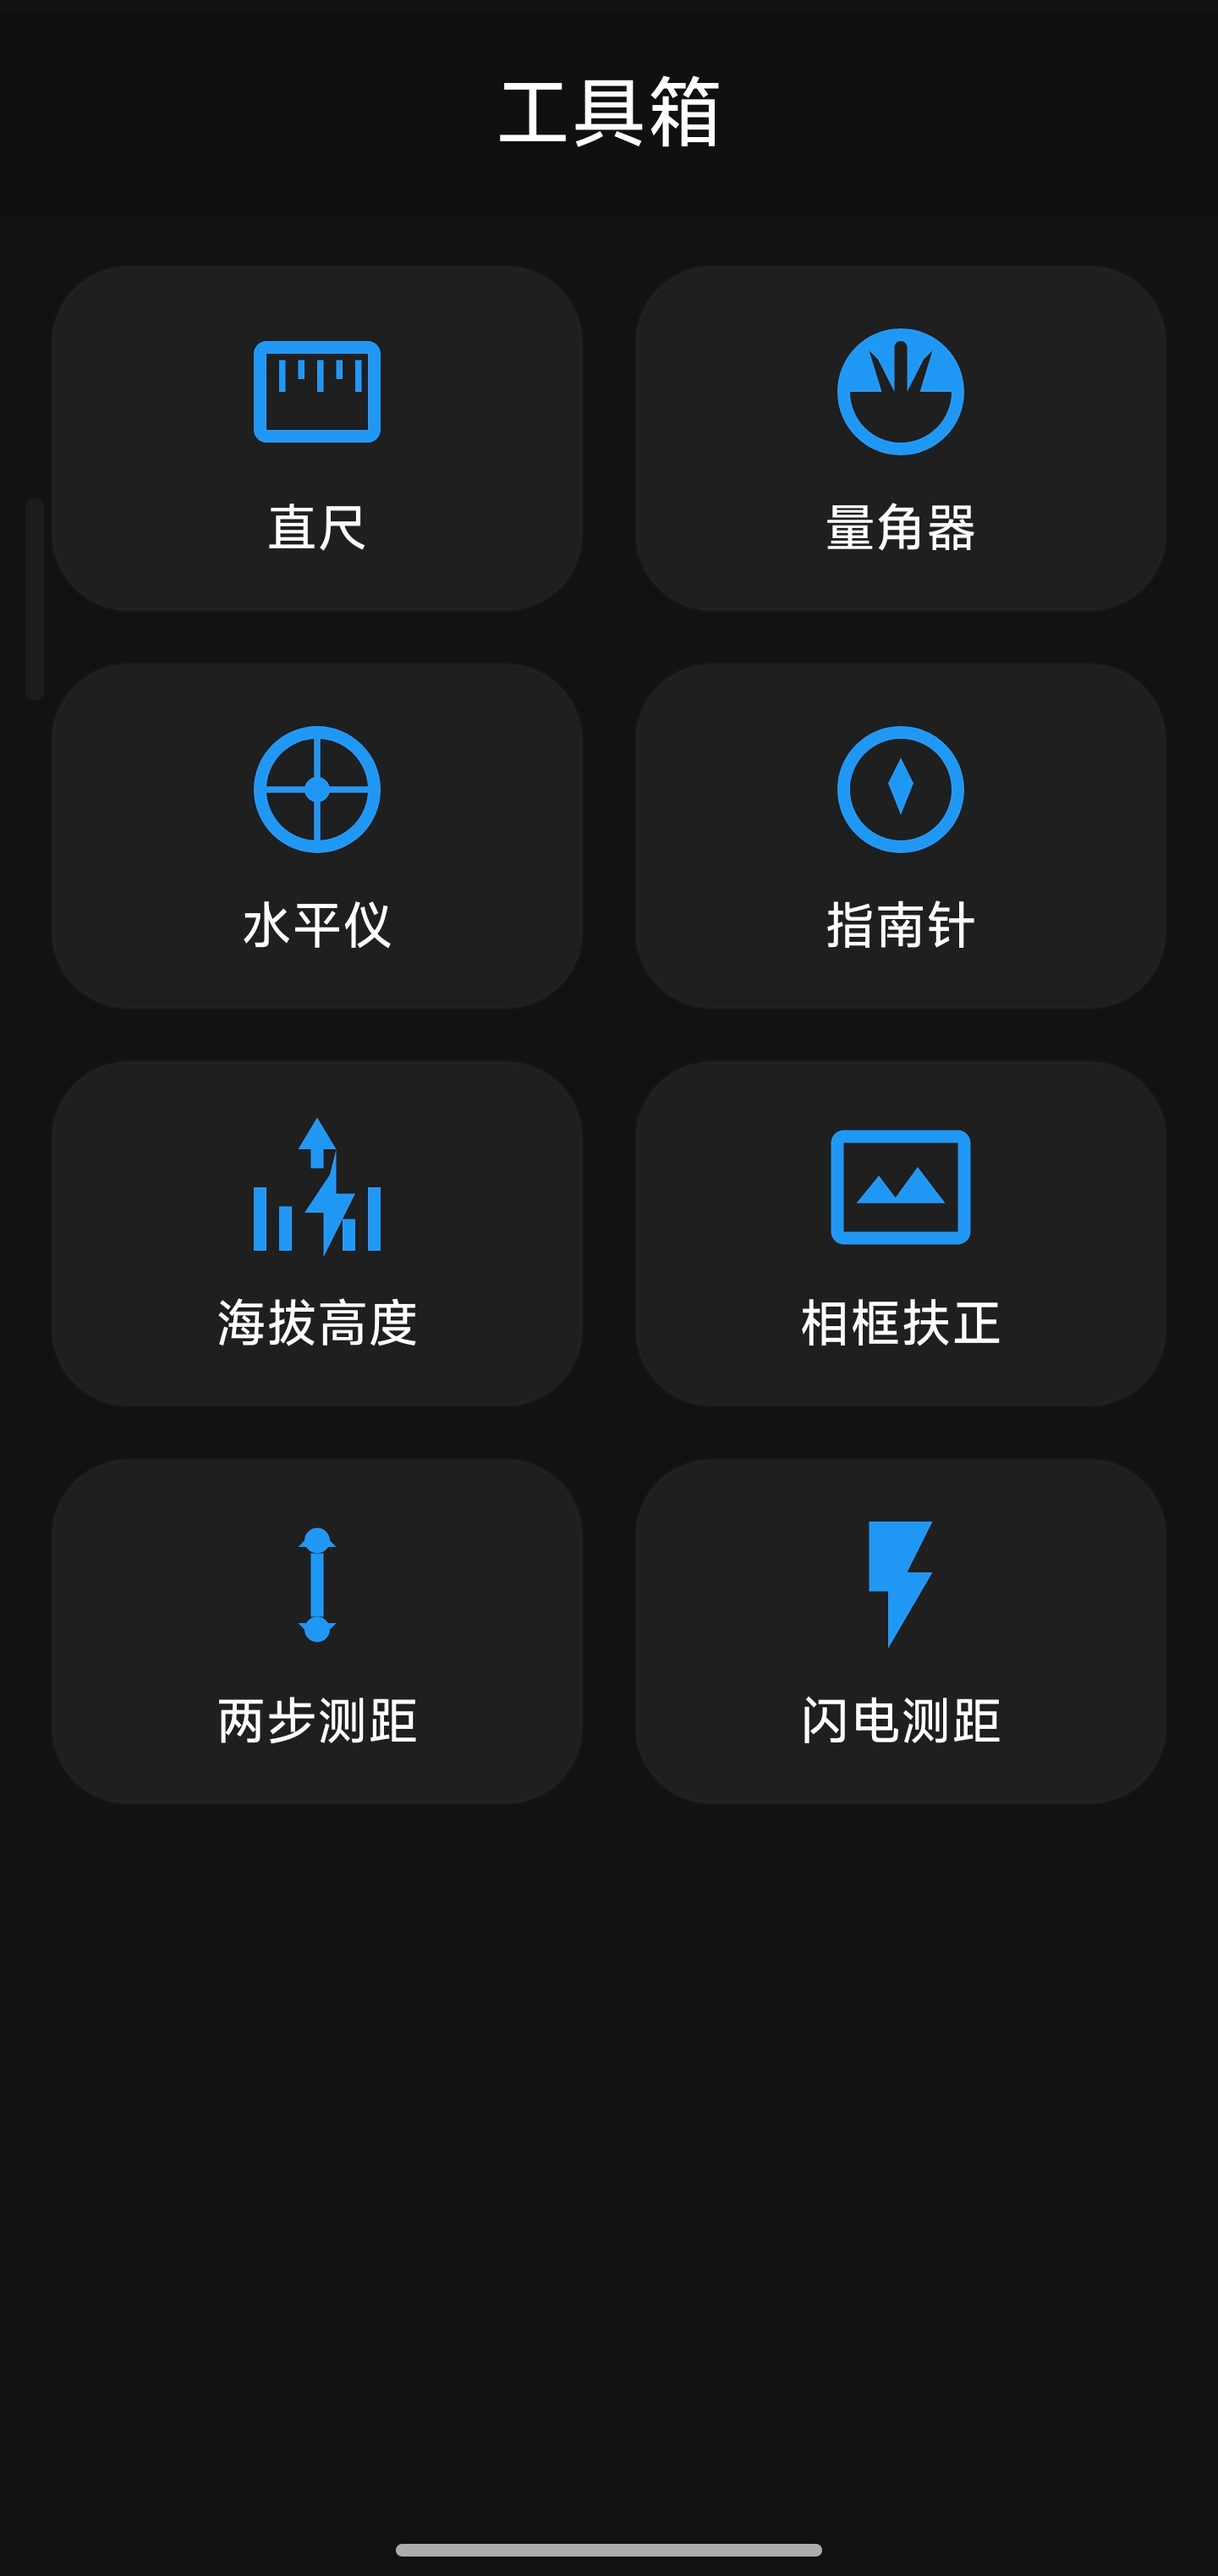
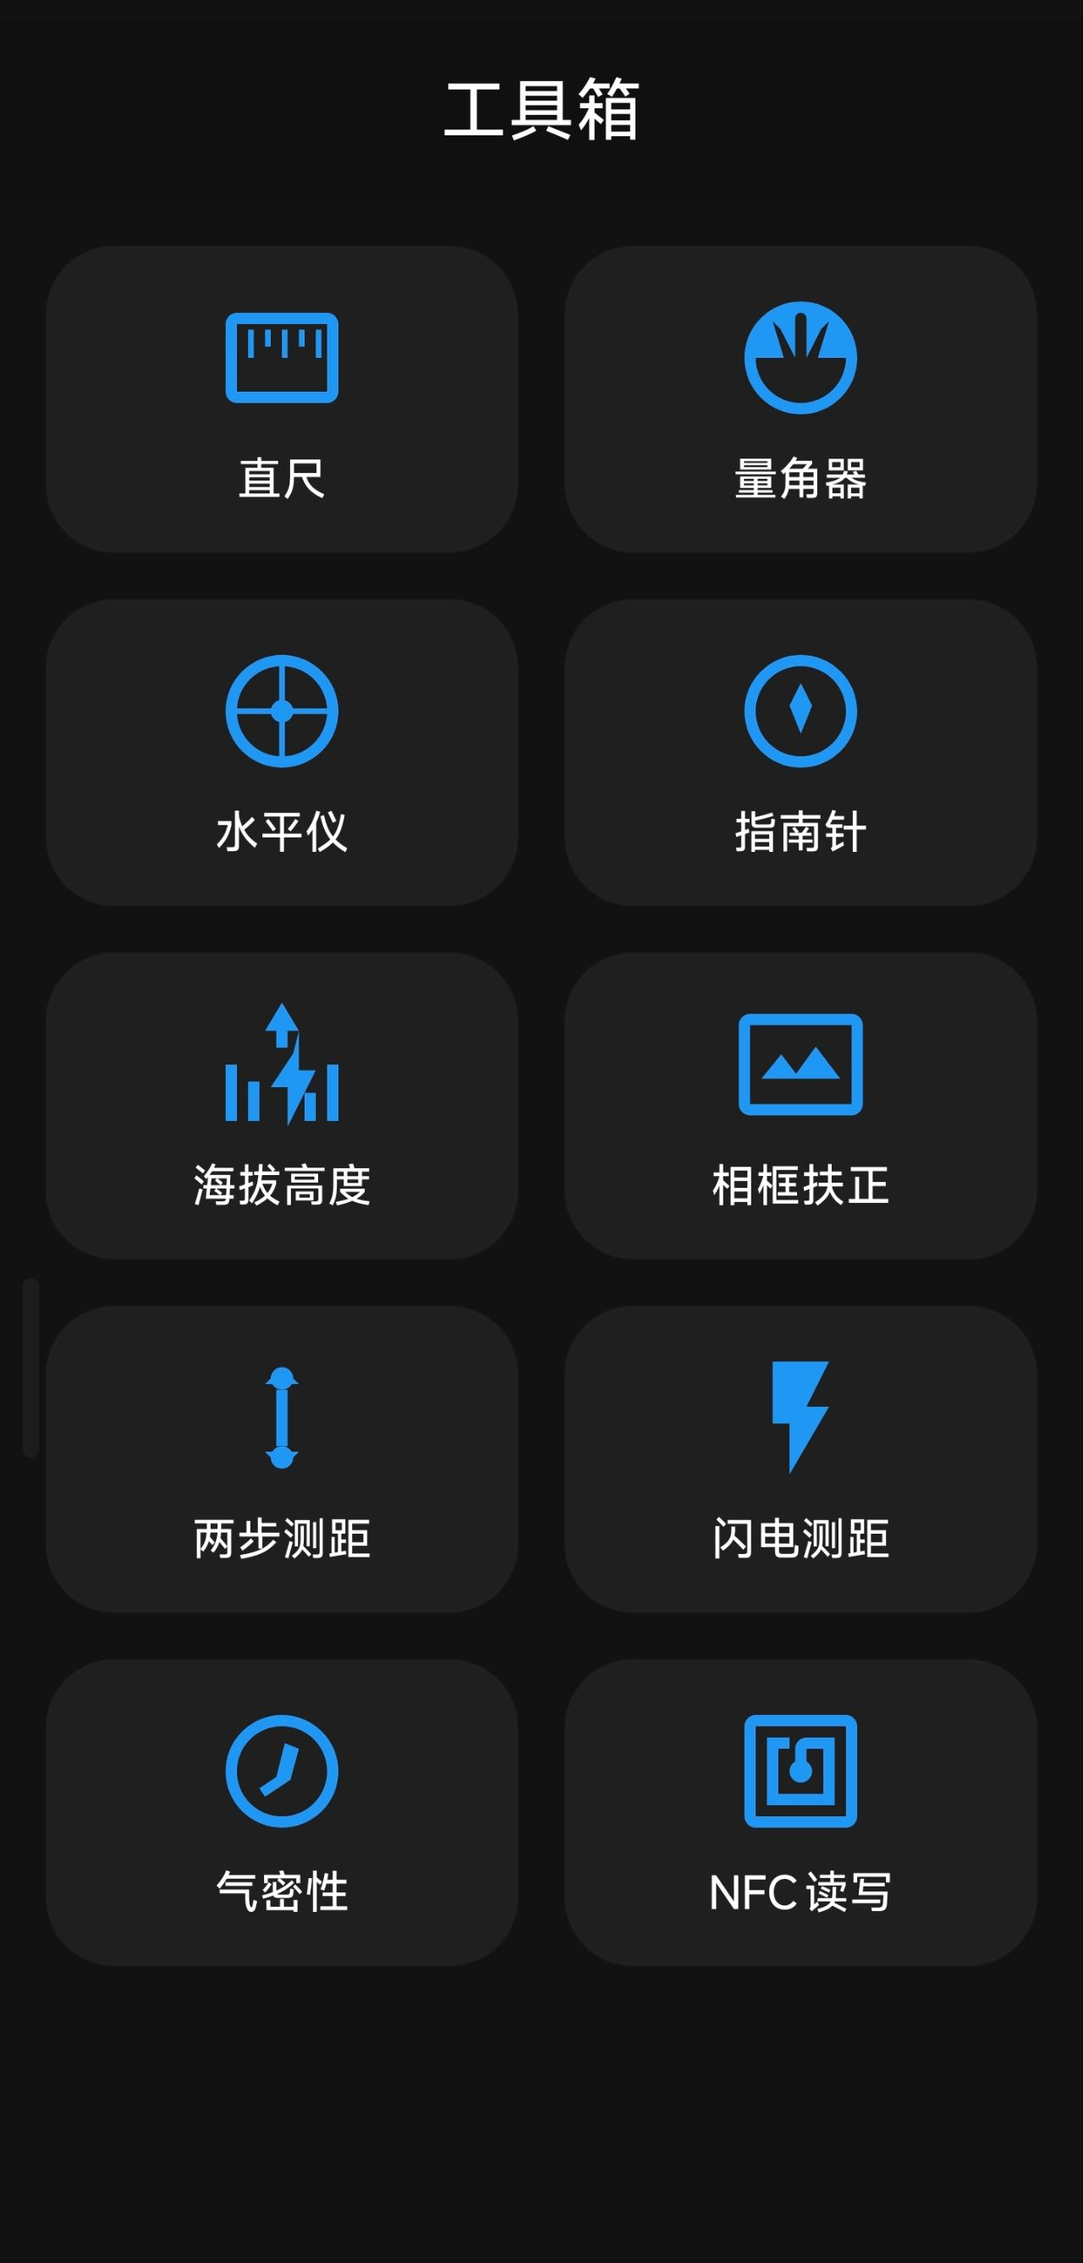
update readme

diff --git a/README_EN.md b/README_EN.md
@@ -31,6 +31,10 @@ In addition to ToF ranging, you can quickly switch to various life measurement g
   Minimalist compass, fusing accelerometer and magnetometer data to accurately display real-time azimuth and magnetic field strength.
 - **🏔 Altimeter**
   Dual-mode measurement: Supports barometric sensor for relative altitude (including boiling point estimation), or GPS for absolute altitude and coordinates.
+- **🎈 Airtightness Check**
+  Uses the barometric pressure sensor to monitor internal phone pressure changes, helping to check the device's water seal performance.
+- **📡 NFC Reader/Writer**
+  Supports reading and writing NFC tags (NDEF format), encompassing text, URLs, app launching, WiFi/Bluetooth pairing, contacts, and location data.
 
 ## 📲 Usage Instructions
 1. **Hardware Requirements**: ToF ranging requires phone hardware support for ToF / Laser AF sensors. Other tools mainly rely on the accelerometer, magnetometer, and microphone.

diff --git a/README.md b/README.md
@@ -36,6 +36,10 @@
   极简指南针，融合加速度计与磁力计数据，精准显示实时方位与磁场强度。
 - **🏔 海拔表 (Altimeter)**  
   双模式测量：支持气压传感器获取相对海拔（含沸点估算），或使用GPS获取绝对海拔与经纬度坐标。
+- **🎈 气密检测 (Airtightness Check)**  
+  利用气压传感器监测手机内部气压变化，辅助检测手机防水密封性能。
+- **📡 NFC读写 (NFC Reader/Writer)**  
+  支持读取和写入NFC标签（NDEF格式），包括文本、网址、应用启动、WiFi/蓝牙配对、联系人及地理位置信息等。
 
 ## 📲 使用说明
 1. **硬件要求**：ToF测距功能需要手机硬件支持ToF/激光对焦传感器。其他工具主要依赖加速度计、磁力计和麦克风。
